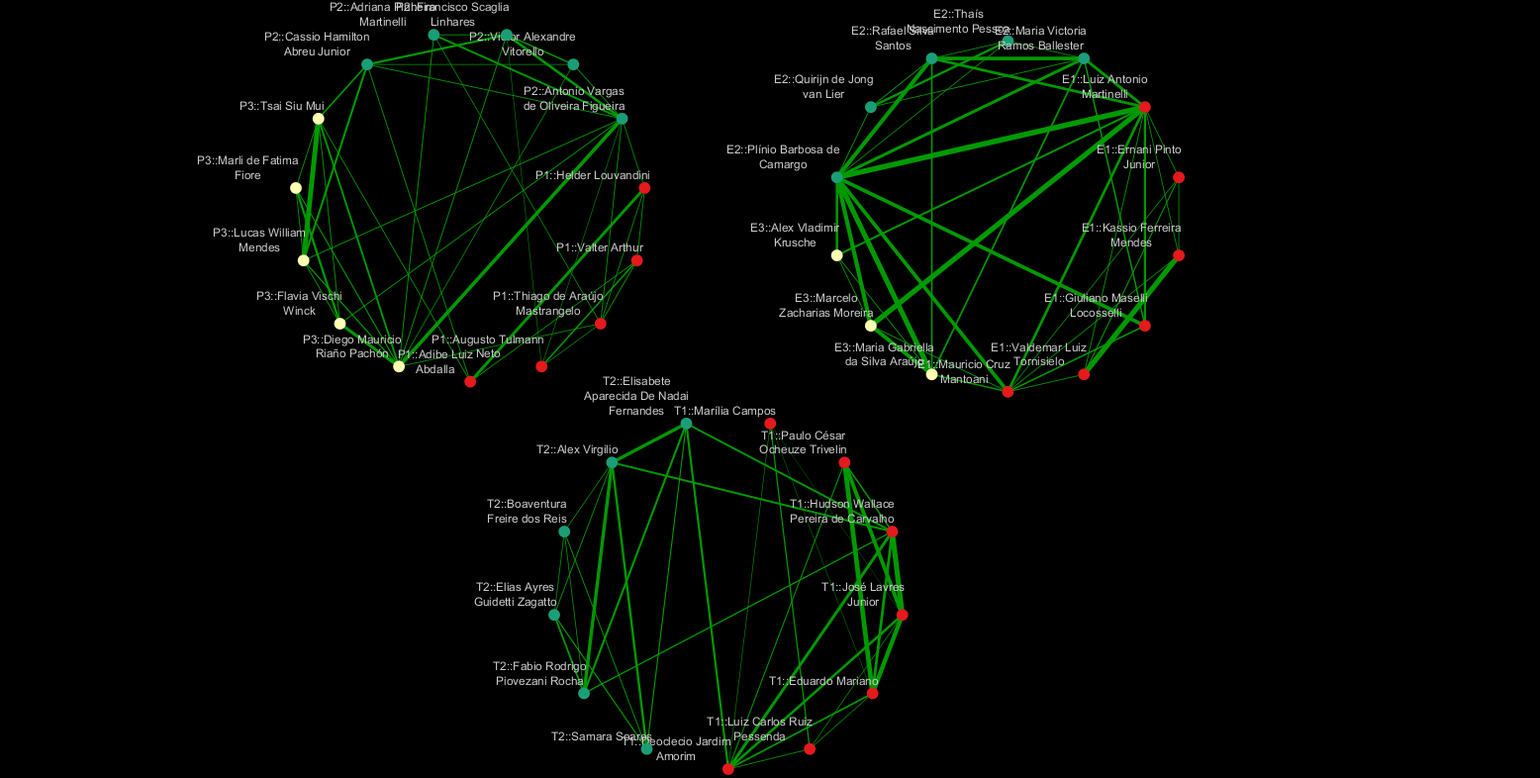
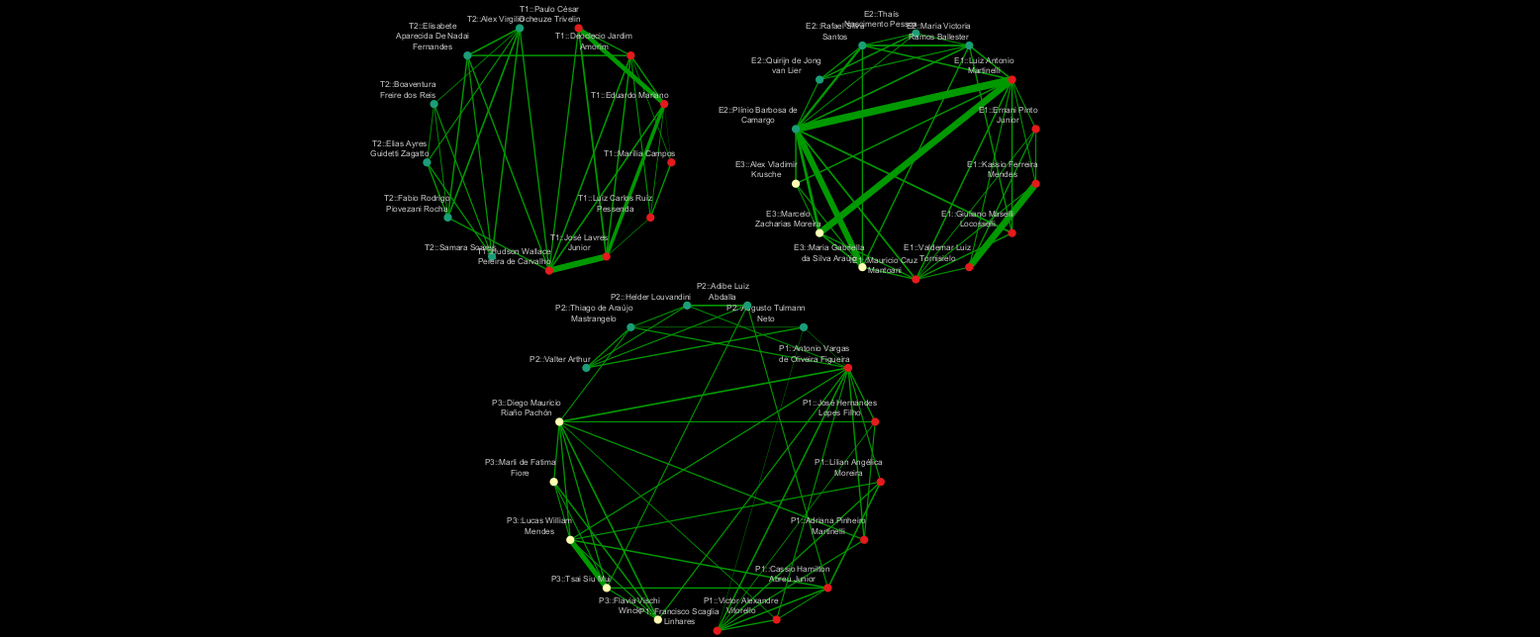
resultados de identificacao de especialidades CENA

Changed region(s): [[0.1234, 0.0, 0.5861, 1.0], [0.4627, 0.0, 0.7712, 0.528]]

diff --git a/README.md b/README.md
@@ -14,8 +14,10 @@ Esta metodologia foi desenvolvida para examinar a produção científica dos doc
 
 O grafo resultante está em [coauthorship.graphml](data/coauthorship.graphml) e pode ser aberto no Cytoscape. A tabela abaixo resume o número de artigos atribuído a cada orientador no conjunto analisado, no periodo de 2021 a 2026, com base nos registros do OpenAlex. Divisão: P = DVPROD, E = DVECO e T = DVTEC.
 
-| Orientador | Divisão | Número de artigos |
+| Professor | Divisão | Número de artigos |
 | --- | --- | ---: |
+| José Hernandes Lopes Filho | P | 5 |
+| Lílian Angélica Moreira | P | 10 |
 | Adibe Luiz Abdalla | P | 82 |
 | Adriana Pinheiro Martinelli | P | 29 |
 | Antonio Vargas de Oliveira Figueira | P | 27 |
@@ -76,8 +78,10 @@ Os nós representam os docentes presentes em [candidates.json](data/candidates.j
 
 ##### Tabela de docentes e número de artigos com título, abstract e keywords incluidos na rede semântica
 
-| Orientador | Áreas | Artigos | Com texto | Com abstract | Com keywords |
+| Professor | Áreas | Artigos | Com texto | Com abstract | Com keywords |
 | --- | --- | ---: | ---: | ---: | ---: |
+| José Hernandes Lopes Filho | P | 5 | 5 | 4 | 5 |
+| Lílian Angélica Moreira | P | 10 | 10 | 8 | 10 |
 | Adibe Luiz Abdalla | P | 82 | 82 | 58 | 82 |
 | Adriana Pinheiro Martinelli | P | 29 | 29 | 21 | 28 |
 | Antonio Vargas de Oliveira Figueira | P | 27 | 27 | 22 | 27 |
@@ -123,7 +127,7 @@ Os nós representam os docentes presentes em [candidates.json](data/candidates.j
 
 ##### Ligações mais fortes de acordo com a similaridade semântica entre orientadores (2021–2026)
 
-| Orientador 1 | Orientador 2 | Similaridade | Artigos compartilhados |
+| Professor 1 | Professor 2 | Similaridade | Artigos compartilhados |
 | --- | --- | ---: | ---: |
 | Luiz Antonio Martinelli | Plínio Barbosa de Camargo | 0.972827 | 13 |
 | Kassio Ferreira Mendes | Valdemar Luiz Tornisielo | 0.969086 | 14 |
@@ -138,69 +142,54 @@ Os nós representam os docentes presentes em [candidates.json](data/candidates.j
 | Cassio Hamilton Abreu Junior | Eduardo Mariano | 0.954282 | 1 |
 | Marcelo Zacharias Moreira | Plínio Barbosa de Camargo | 0.952268 | 4 |
 | Plínio Barbosa de Camargo | Rafael Silva Santos | 0.950232 | 0 |
+| Lílian Angélica Moreira | Paulo César Ocheuze Trivelin | 0.949202 | 0 |
 | Paulo César Ocheuze Trivelin | José Lavres Junior | 0.947837 | 0 |
 | Marcelo Zacharias Moreira | Maria Gabriella da Silva Araújo | 0.946419 | 2 |
 | Plínio Barbosa de Camargo | Luiz Carlos Ruiz Pessenda | 0.946386 | 0 |
+| Lílian Angélica Moreira | José Lavres Junior | 0.945746 | 3 |
 | Plínio Barbosa de Camargo | Deoclecio Jardim Amorim | 0.945170 | 0 |
 | Giuliano Maselli Locosselli | Plínio Barbosa de Camargo | 0.944615 | 0 |
-| Mauricio Cruz Mantoani | Plínio Barbosa de Camargo | 0.944567 | 0 |
-| Maria Victoria Ramos Ballester | Rafael Silva Santos | 0.943360 | 0 |
 
 
 ![Rede de similaridade semântica global CENA/USP](Figs/semantic_similarity.png)
 **Figura 2. Rede semântica global.**
+Não é clara a existencia de comunidades temáticas bem definidas, mas há pares de docentes com alta similaridade semântica. As cores dos nós correspondem ás divisões científicas: P = laranja, E = verde e T = roxo. A espessura das arestas indica a similaridade semântica entre os docentes, calculada com base em títulos, resumos e palavras-chave dos artigos.
 
 ### Rede de similaridade semântica por divisão científica
 
 As saídas em `data/` incluem [area_semantic.graphml](data/area_semantic.graphml) (que pode ser visualizado em Cytoscape) e os arquivos [area_semantic_P.graphml](data/area_semantic_P.graphml), [area_semantic_E.graphml](data/area_semantic_E.graphml) e [area_semantic_T.graphml](data/area_semantic_T.graphml); [area_semantic_nodes.csv](data/area_semantic_nodes.csv) e [area_semantic_edges.csv](data/area_semantic_edges.csv) descrevem seus nós e arestas. [area_semantic_matrix_P.csv](data/area_semantic_matrix_P.csv), [area_semantic_matrix_E.csv](data/area_semantic_matrix_E.csv) e [area_semantic_matrix_T.csv](data/area_semantic_matrix_T.csv) preservam os pares comparáveis que não aparecem nas redes. [area_semantic_coverage.csv](data/area_semantic_coverage.csv) mostra quantos artigos de cada docentes foram aproveitados em cada divisão. Os vetores dos artigos ficam em cache em [area_semantic_embeddings.npz](data/area_semantic_embeddings.npz), de modo que uma nova execução após a curadoria no arquivo ([work_area_curated.csv](data/work_area_curated.csv)) pode reutilizá-los.
 
-
-| Área | Docentes de referência | Artigos de referência | Artigos atribuídos |
-| --- | ---: | ---: | ---: |
-| P | 15 | 477 | 974 |
-| E | 14 | 417 | 1042 |
-| T | 13 | 296 | 1027 |
-Para discutir novas linhas de pesquisa, a rede global pode indicar aproximações amplas; as redes por área mostram **quais dessas aproximações persistem** quando os artigos são filtrados. A interpretação final deve considerar cobertura desigual de publicações, qualidade da atribuição dos artigos às áreas, termos e artigos representativos, além das prioridades do programa.
-
-
 ![Rede de similaridade semântica por divisão CENA/USP](Figs/area_semantic.png)
 **Figura 3. Redes semânticas por divisão científica.**
-A imagem apresenta três conjuntos separados: DVPROD (P), à esquerda; DVECO (E), na região superior direita; e DVTEC (T), abaixo. Cada nó corresponde à atuação de um docente naquela divisão, identificada pelo prefixo P::, E:: ou T::. As linhas verdes ligam pares de orientadores dentro da mesma área. A separação entre P, E e T decorre da construção da rede, que não inclui arestas entre áreas. As posições dos nós também dependem do algoritmo de disposição e não devem ser interpretadas como uma escala numérica de similaridade. As cores dos nós correspondem ás comunidades detectadas pelo algoritmo de Louvain. A espessura das arestas indica a similaridade semântica entre os docentes, calculada com base em títulos, resumos e palavras-chave dos artigos.
+A imagem apresenta três conjuntos separados: DVTEC (T), à esquerda; DVECO (E), na região superior direita; e , DVPROD (P) abaixo. Cada nó corresponde à atuação de um docente naquela divisão, identificada pelo prefixo P::, E:: ou T::. As linhas verdes ligam pares de orientadores dentro da mesma área. A separação entre P, E e T decorre da construção da rede, que não inclui arestas entre áreas. As posições dos nós também dependem do algoritmo de disposição e não devem ser interpretadas como uma escala numérica de similaridade. As cores dos nós correspondem ás comunidades detectadas pelo algoritmo de Louvain. A espessura das arestas indica a similaridade semântica entre os docentes, calculada com base em títulos, resumos e palavras-chave dos artigos. É claro que dentro de cada divisão existen comunidades com maior afinidade temática.
 
-### Proposta de linhas de pesquisa por área
+### Proposta de especialidades por divisão científica
 
-#### Biologia na agricultura e no ambiente (B)
+Est proposta usa a análise de redes semânticas como subsidio para agrupar docentes com afinidade temática, e identificar áreas grandes de atuacão dos docentes do CENA/USP. Precisa de maior discussão e validação com os docentes, mas pode ajudar a identificar especialidades. A proposta está centrada nas comunidades detectadas pelo algoritmo de Louvain, mas em algúns caso sugeri especialidades adicionais (*) com base no conhecimento das linhas de pesquisa do CENA/USP. A proposta de especialidades por divisão científica é apresentada abaixo.
 
-| Grupo | Título representativo |
+#### Divisão de Produtividade Agroindustrial e Alimentos - P 
+
+| Grupo | Especialidades |
 | --- | --- |
-| B1 | Nutrição vegetal, fertilidade do solo e contaminantes |
-| B2 | Biologia integrativa, genômica e biotecnologia |
-| B3 | Ecologia de ecossistemas, microbiomas e mudanças ambientais |
-| B4 | Nutrição animal, saúde e emissões de gases de efeito estufa |
+| P1 | Nutricão vegetal e fertilidade do solo |
+| P2 | Técnicas Nucleares Aplicadas a Biologia de Organismos |
+| P3 | Biologia integrativa e ômicas |
+| *P4 | Biotecnologia e Melhoramento de Plantas |
 
-#### Energia Nuclear na agricultura e no ambiente (N)
+#### Divisão de Funcionamento de Ecossistemas Tropicais - E
 
-| Grupo | Título representativo |
+| Grupo | Especialidades |
 | --- | --- | 
-| N1 | Aplicações da radiação na produção animal |
-| N2 | Ciclos biogeoquímicos e dinâmica ambiental |
-| N3 | Fertilidade do solo, nutrição vegetal e comportamento de herbicidas |
+| E1 | Contaminantes na Agricultura e no Ambiente |
+| E2 |  |
+| E3 | Ecologia de ecossistemas e mudanças climáticas |
 
-#### Química na agricultura e no ambiente (Q)
+#### Divisão de Desenvolvimento de Métodos e Técnicas Analíticas Nucleares - T
 
-| Grupo | Título representativo |
+| Grupo | Especialidades |
 | --- | --- |
-| Q1 | Química ambiental e biogeoquímica de solos e ecossistemas |
-| Q2 | Química analítica e compostos bioativos |
-
-## Limitações e possibilidades de aprimoramento
-
-Um orientador pode estar vinculado a B, N e Q, mas sua produção não se distribui necessariamente da mesma forma entre essas áreas. Na rede global, todos os seus artigos elegíveis contribuem para um único perfil temático. Na análise por área, o orientador pode aparecer nas três redes, porém cada artigo é primeiro classificado: ele contribui apenas para as áreas que lhe foram atribuídas, e pode contribuir para mais de uma. Assim, o script não replica automaticamente todos os artigos do orientador em todas as suas áreas. A separação obtida depende, contudo, da qualidade dessa atribuição.
-A classificação automática usa como referências publicações de orientadores vinculados a uma única área, descartando das referências os artigos também associados a orientadores exclusivos de outra área. Esse procedimento oferece um ponto de partida, mas o vínculo institucional exclusivo de um orientador não garante que cada um de seus artigos seja tematicamente exclusivo daquela área. Por isso, work_area_curated.csv permite corrigir as sugestões antes de interpretar as redes e os grupos.
-
-Uma possibilidade de aprimoramento é usar as teses e dissertações dos egressos como referências temáticas. A relação orientador → egresso → tese/dissertação permite reunir trabalhos desenvolvidos no âmbito do programa. Com o registro da área de concentração oficial de cada trabalho, títulos, resumos e palavras-chave de teses e dissertações dessa área são exemplos mais diretamente ligados às definições institucionais de B, N e Q. Para orientadores que atuam em várias áreas, essa informação ajudaria a distinguir os temas de orientação em cada uma delas. 
-
-Essa estratégia ainda exigiria atenção à cobertura desigual de teses entre áreas, a possíveis mudanças de temas ao longo do tempo e à diferença de idioma entre dissertações em português e artigos majoritariamente em inglês. Trata-se de uma proposta metodológica futura: os scripts atuais não incorporam teses ou dissertações.
+| T1 | Técnicas Nucleares na Agricultura e no Ambiente|
+| T2 | Técnicas Analíticas na Agricultura e no Ambiente |
 
 ## Métodos
 
@@ -218,7 +207,7 @@ python -m pip install openpyxl numpy sentence-transformers scipy scikit-learn ne
 
 ### Seleção dos orientadores
 
-A lista de orientadores credenciados no programa em agosto de 2026 e suas áreas de concentração foi registrada em [supervisors.json](data/supervisors.json). Neste documento, **B** corresponde a Biologia na Agricultura e no Ambiente; **N**, a Energia Nuclear na Agricultura e no Ambiente; e **Q**, a Química na Agricultura e no Ambiente. Um orientador pode estar vinculado a mais de uma área.
+A lista de professores foi obtida em outubro de 2026 a partir do website do CENA/USP, dados foram registrados em [supervisors.json](data/supervisors.json). Neste documento, **P** corresponde a Divisão de Produtividade Agroindustrial e Alimentos; **T**, a Divisão de Desenvolvimento de Métodos e Técnicas Analíticas Nucleares; e **E**, a Divisão de  Funcionamento de Ecossistemas Tropicais. Um professor só pode estar vinculado a uma divisão.
 
 Os perfis dos orientadores foram procurados no [OpenAlex](https://openalex.org/) por meio de sua [API](https://api.openalex.org), usando [collect.py](scripts/collect.py):
 
@@ -226,11 +215,11 @@ Os perfis dos orientadores foram procurados no [OpenAlex](https://openalex.org/)
 python3 ./scripts/collect.py ../CENA_Research_Lines/
 ```
 
-Os resultados dessa busca foram conferidos manualmente para eliminar homônimos e manter os perfis validados com ORCID. Os identificadores selecionados estão em [candidates.json](data/candidates.json). Essa revisão é importante porque um perfil atribuído ao orientador errado contaminaria todas as etapas seguintes. Todos os orientadores credenciados estão presentes em [candidates.json](data/candidates.json).
+Os resultados dessa busca foram conferidos manualmente para eliminar homônimos e manter os perfis validados com ORCID, um perfil por docente. Os identificadores selecionados estão em [candidates.json](data/candidates.json). Essa revisão é importante porque um perfil atribuído ao docente errado contaminaria todas as etapas seguintes. Todos os docentes estão presentes em [candidates.json](data/candidates.json).
 
 ### Recuperação das publicações
 
-A consulta ao OpenAlex ocorreu em **1º de outubro de 2026**. O [works.py](scripts/works.py) disponível neste projeto solicita trabalhos publicados de **1º de janeiro de 2021 a 31 de dezembro de 2026**. O script consulta os perfis selecionados em `candidates.json` e guarda as respostas da API em arquivos JSON separados por identificador de autor.
+A consulta ao OpenAlex ocorreu em **3º de outubro de 2026**. O [works.py](scripts/works.py) disponível neste projeto solicita trabalhos publicados de **1º de janeiro de 2021 a 31 de dezembro de 2026**. O script consulta os perfis selecionados em `candidates.json` e guarda as respostas da API em arquivos JSON separados por identificador de autor.
 
 Os arquivos de trabalhos são gravados em sua subpasta `data/raw/`.
 
@@ -238,11 +227,11 @@ Os arquivos de trabalhos são gravados em sua subpasta `data/raw/`.
 python3 ./scripts/works.py ../CENA_Research_Lines/
 ```
 
-O script [works_to_excel.py](scripts/works_to_excel.py), gera uma [planilha de publicações](data/candidate_publications.xlsx) com os detalhes das publicações dos orientadores. Foram identificados **1.732 registros** de publicações de diferentes tipos, incluindo artigos, livros, capítulos e preprints. A planilha contém título, DOI, lista de autores, orientador associado, ano, tipo de publicação e ID do trabalho no OpenAlex. Um mesmo trabalho pode aparecer em mais de uma linha se estiver associado a mais de um orientador; portanto, o número de registros não representa necessariamente 1.732 publicações distintas. Os resumos e as palavras-chave permanecem nos arquivos JSON usados na análise semântica, mas não são exportados por esta versão de `works_to_excel.py`.
+O script [works_to_excel.py](scripts/works_to_excel.py), gera uma [planilha de publicações](data/candidate_publications.xlsx) com os detalhes das publicações dos orientadores. Foram identificados **2.049 registros** de publicações de diferentes tipos, incluindo artigos, livros, capítulos e preprints. A planilha contém título, DOI, lista de autores, orientador associado, ano, tipo de publicação e ID do trabalho no OpenAlex. Um mesmo trabalho pode aparecer em mais de uma linha se estiver associado a mais de um orientador; portanto, o número de registros não representa necessariamente 2.049 publicações distintas. Os resumos e as palavras-chave permanecem nos arquivos JSON usados na análise semântica, mas não são exportados por esta versão de `works_to_excel.py`.
 
 ### Rede de coautoria
 
-O script [coauthorship.py](scripts/coauthorship.py) constrói uma rede somente com os orientadores de `candidates.json`, considerando registros do OpenAlex com `type = article`. Cada nó representa um orientador. Dois nós são ligados quando os respectivos orientadores aparecem associados ao **mesmo ID de trabalho do OpenAlex**; o peso da aresta é o número de artigos distintos compartilhados. Um artigo é contado apenas uma vez por orientador, mesmo quando há identificadores de autor duplicados ou registros repetidos nos arquivos de entrada.
+O script [coauthorship.py](scripts/coauthorship.py) constrói uma rede somente com os docentes de `candidates.json`, considerando registros do OpenAlex com `type = article`. Cada nó representa um docente. Dois nós são ligados quando os respectivos docentes aparecem associados ao **mesmo ID de trabalho do OpenAlex**; o peso da aresta é o número de artigos distintos compartilhados. Um artigo é contado apenas uma vez por orientador, mesmo quando há identificadores de autor duplicados ou registros repetidos nos arquivos de entrada.
 
 ```bash
 python3 ./scripts/coauthorship.py ../CENA_Research_Lines/
@@ -250,26 +239,26 @@ python3 ./scripts/coauthorship.py ../CENA_Research_Lines/
 
 ### Similaridade semântica entre orientadores
 
-O script [semantic_similarity.py](scripts/semantic_similarity.py) utiliza títulos, resumos (*abstracts*) e palavras-chave (*keywords*) dos artigos para estimar a proximidade temática entre orientadores. Ele usa um modelo da biblioteca [Sentence Transformers](https://www.sbert.net/) para transformar textos em **embeddings**: vetores numéricos cujas posições procuram representar relações de significado aprendidas durante o treinamento. Neste estudo, a semelhança entre vetores é usada como aproximação da semelhança entre os temas dos textos; não é uma classificação definitiva das linhas de pesquisa.
+O script [semantic_similarity.py](scripts/semantic_similarity.py) utiliza títulos, resumos (*abstracts*) e palavras-chave (*keywords*) dos artigos para estimar a proximidade temática entre docentes. Ele usa um modelo da biblioteca [Sentence Transformers](https://www.sbert.net/) para transformar textos em **embeddings**: vetores numéricos cujas posições procuram representar relações de significado aprendidas durante o treinamento. Neste estudo, a semelhança entre vetores é usada como aproximação da semelhança entre os temas dos textos; não é uma classificação definitiva das linhas de pesquisa.
 
 #### Como o transformer produz um embedding
 
 1. **Divisão em tokens.** O texto é separado em unidades menores, chamadas *tokens*. Elas podem corresponder a palavras inteiras ou a partes de palavras. Os tokens são convertidos em identificadores numéricos de entrada do modelo.
 2. **Representação contextual.** O transformer processa os tokens em conjunto. Pelo mecanismo de *[atenção](https://doi.org/10.48550/arXiv.1706.03762)*, a representação de cada token é ajustada com base nos demais tokens do mesmo trecho. Por isso, uma palavra pode contribuir de formas diferentes conforme o contexto em que aparece. Essa representação é aprendida pelo modelo durante o treinamento; o script não atribui manualmente um valor a cada palavra.
-3. **Agregação dos tokens.** Para obter um único vetor por trecho de texto, o modelo Sentence Transformers combina as representações contextualizadas dos tokens por uma operação chamada *pooling*. Nos dois modelos mencionados abaixo, a operação configurada é a média dos tokens válidos, desconsiderando o preenchimento usado nos lotes. O resultado é um vetor denso: **768 dimensões** com `all-mpnet-base-v2` ou **384 dimensões** com `paraphrase-multilingual-MiniLM-L12-v2`. Cada dimensão participa da representação aprendida; ela não deve ser interpretada isoladamente como um tema específico.
+3. **Agregação dos tokens.** Para obter um único vetor por trecho de texto, o modelo Sentence Transformers combina as representações contextualizadas dos tokens por uma operação chamada *pooling*. Nos dois modelos mencionados abaixo, a operação configurada é a média dos tokens válidos, desconsiderando o preenchimento usado nos lotes. O resultado é um vetor denso: **1024** com `BAAI/bge-large-en-v1.5` ou  **768 dimensões** com `all-mpnet-base-v2` ou **384 dimensões** com `paraphrase-multilingual-MiniLM-L12-v2`. Cada dimensão participa da representação aprendida; ela não deve ser interpretada isoladamente como um tema específico.
 4. **Normalização.** O script normaliza esses vetores para comprimento unitário antes de combiná-los. Dessa forma, a comparação posterior se concentra na direção dos vetores, e não em sua magnitude.
 
 Essas etapas descrevem a codificação **de um trecho de texto**. O script ainda precisa combinar trechos, campos e artigos:
 
 1. **Trechos de texto:** antes de enviar um campo ao modelo, o script o divide em blocos de até 112 tokens de texto por padrão, respeitando o limite do modelo e reservando espaço para seus tokens especiais. A opção `--max-tokens N` muda o limite total de cada trecho, **incluindo** os tokens especiais; por exemplo, com `--max-tokens 512`, um modelo que usa dois tokens especiais recebe no máximo 510 tokens do texto. Um valor acima do limite do modelo produz um erro explícito. Isso evita descartar o fim de resumos longos. Se houver vários blocos, calcula a média de seus vetores e normaliza o resultado. A média preserva informação dos blocos, mas não representa as relações de ordem entre blocos distantes.
 2. **Campos de um artigo:** combina separadamente os vetores do título, do resumo e das palavras-chave. Com os valores padrão, seus pesos relativos são, respectivamente, **25%, 60% e 15%**. Se faltar um campo, os pesos dos campos presentes são redistribuídos proporcionalmente. O vetor final do artigo é normalizado. Esses pesos são escolhas metodológicas do script, não parâmetros aprendidos pelo transformer, e podem ser alterados por opções de linha de comando.
-3. **Artigos de um orientador:** combina os vetores dos artigos do orientador, dando o mesmo peso a cada artigo, e normaliza o perfil resultante. O script trabalha apenas com registros `type = article` e usa o intervalo de datas indicado na execução.
-4. **Comparação entre dois orientadores:** por padrão, retira dos **dois perfis daquele par** os artigos que ambos assinaram. Isso evita que um mesmo trabalho compartilhado aumente diretamente a similaridade do par. Os perfis usados nessa comparação, portanto, podem variar conforme o par; se um orientador ficar sem artigos após a exclusão, não há valor de similaridade para esse par. A opção `--include-shared` mantém os artigos compartilhados.
+3. **Artigos de um docente:** combina os vetores dos artigos do docente, dando o mesmo peso a cada artigo, e normaliza o perfil resultante. O script trabalha apenas com registros `type = article` e usa o intervalo de datas indicado na execução.
+4. **Comparação entre dois docentes:** por padrão, retira dos **dois perfis daquele par** os artigos que ambos assinaram. Isso evita que um mesmo trabalho compartilhado aumente diretamente a similaridade do par. Os perfis usados nessa comparação, portanto, podem variar conforme o par; se um orientador ficar sem artigos após a exclusão, não há valor de similaridade para esse par. A opção `--include-shared` mantém os artigos compartilhados.
 5. **Similaridade e rede:** calcula o **cosseno** entre os dois perfis normalizados, equivalente ao produto escalar de seus vetores. O valor matemático está entre −1 e 1; valores maiores indicam direções mais próximas, mas **não são porcentagens de temas em comum nem probabilidades**. O parâmetro `--top-k` escolhe os *k* vizinhos comparáveis mais próximos de cada orientador. A rede contém a **união** dessas escolhas: uma ligação entra se for escolhida por pelo menos um dos dois nós, de modo que um nó pode terminar com mais de *k* ligações. A matriz CSV guarda também as comparações que não viraram arestas.
 
 #### Resultados da análise da rede semântica
 
-Nesta análise foi escolhido o modelo [BAAI/bge-large-en-v1.5](https://huggingface.co/BAAI/bge-large-en-v1.5), outras alternativas mais baratas computacionalmente são [all-mpnet-base-v2](https://huggingface.co/sentence-transformers/all-mpnet-base-v2) para textos majoritariamente em inglês, e [paraphrase-multilingual-MiniLM-L12-v2](https://huggingface.co/sentence-transformers/paraphrase-multilingual-MiniLM-L12-v2), uma alternativa quando os textos incluem vários idiomas (este último é o **padrão do script**). São modelos de uso geral para embeddings de frases e parágrafos; nesta análise não houve ajuste adicional do modelo para o vocabulário específico do PPG-Ciências. A escolha do modelo afeta os vetores e, portanto, pode alterar as similaridades e as arestas. A base para a seleção do modelo foi um [benchmark recente](http://dx.doi.org/10.30970/eli.30.4) que avaliou varios modelos de embeddings em tarefas de similaridade semântica, classificação e recuperação de informação. O modelo BGE Large obteve o melhor na captura de relações semânticas, seguido por all-mpnet-base-v2 e paraphrase-multilingual-MiniLM-L12-v2. (Resultados com all-mpnet-base-v2 estão disponiveis em [data/semantic_similarity_all-mpnet-base-v2](data/semantic_similarity_all-mpnet-base-v2).)
+Nesta análise foi escolhido o modelo [BAAI/bge-large-en-v1.5](https://huggingface.co/BAAI/bge-large-en-v1.5), outras alternativas mais baratas computacionalmente são [all-mpnet-base-v2](https://huggingface.co/sentence-transformers/all-mpnet-base-v2) para textos majoritariamente em inglês, e [paraphrase-multilingual-MiniLM-L12-v2](https://huggingface.co/sentence-transformers/paraphrase-multilingual-MiniLM-L12-v2), uma alternativa quando os textos incluem vários idiomas (este último é o **padrão do script**). São modelos de uso geral para embeddings de frases e parágrafos; nesta análise não houve ajuste adicional do modelo para o vocabulário específico do CENA/USP. A escolha do modelo afeta os vetores e, portanto, pode alterar as similaridades e as arestas. A base para a seleção do modelo foi um [benchmark recente](http://dx.doi.org/10.30970/eli.30.4) que avaliou varios modelos de embeddings em tarefas de similaridade semântica, classificação e recuperação de informação. O modelo BGE Large obteve o melhor na captura de relações semânticas, seguido por all-mpnet-base-v2 e paraphrase-multilingual-MiniLM-L12-v2.
 
 ```bash
 python3 scripts/semantic_similarity.py ../CENA_Research_Lines/ \
@@ -279,13 +268,13 @@ python3 scripts/semantic_similarity.py ../CENA_Research_Lines/ \
   --top-k 4
 ```
 
-Com essa execução, o script lê os arquivos em `PROJECT_ROOT/data/`, usa por padrão artigos de 2021 a 2026 **que estejam presentes nos arquivos JSON** e grava a rede em [semantic_similarity.graphml](data/semantic_similarity.graphml) (que pode ser visualizada em Cytoscape), além da [tabela de nós](data/semantic_similarity_nodes.csv), da [lista de arestas](data/semantic_similarity_edges.csv) e da [matriz completa de similaridade](data/semantic_similarity_matrix.csv). Os resultados descrevem proximidade no espaço vetorial do modelo e devem ser interpretados junto com os textos dos artigos e com a avaliação dos orientadores.
+Com essa execução, o script lê os arquivos em `PROJECT_ROOT/data/`, usa por padrão artigos de 2021 a 2026 **que estejam presentes nos arquivos JSON** e grava a rede em [semantic_similarity.graphml](data/semantic_similarity.graphml) (que pode ser visualizada em Cytoscape), além da [tabela de nós](data/semantic_similarity_nodes.csv), da [lista de arestas](data/semantic_similarity_edges.csv) e da [matriz completa de similaridade](data/semantic_similarity_matrix.csv). Os resultados descrevem proximidade no espaço vetorial do modelo.
 
-A rede gerada por `semantic_similarity.py` reúne todos os orientadores em uma única comparação. Ela ajuda a reconhecer afinidades temáticas que atravessam as áreas de concentração e a localizar pares cuja produção merece leitura mais atenta. Para interpretar seus resultados, convém distinguir os arquivos produzidos:
+A rede gerada por `semantic_similarity.py` reúne todos os docentes em uma única comparação. Ela ajuda a reconhecer afinidades temáticas que atravessam as divisões científicas e a localizar pares cuja produção merece leitura mais atenta. Para interpretar seus resultados, convém distinguir os arquivos produzidos:
 
 | Arquivo em `data/` | O que permite examinar |
 | --- | --- |
-| `semantic_similarity_nodes.csv` | Orientadores, áreas de concentração e número de artigos com texto utilizável. |
+| `semantic_similarity_nodes.csv` | Docentes, divisões científicas e número de artigos com texto utilizável. |
 | `semantic_similarity_edges.csv` | Pares exibidos na rede, cosseno em `weight` e número de artigos que o par assinou em conjunto. |
 | `semantic_similarity_matrix.csv` | Similaridade de todos os pares comparáveis, inclusive daqueles que ficaram fora da rede após a seleção dos vizinhos. |
 | `semantic_similarity.graphml` | Rede para exploração visual no Cytoscape. |
@@ -294,18 +283,9 @@ Uma aresta forte sugere que os artigos **não compartilhados** daquele par trata
 
 ### Da rede global às análises por área de concentração
 
-O script [area_semantic.py](scripts/area_semantic.py) responde a uma pergunta mais específica: **quais orientadores se aproximam quando consideramos apenas os artigos pertinentes a uma determinada área de concentração?** Ele importa funções de `semantic_similarity.py` para ler os dados, gerar embeddings e calcular comparações, mas **não lê** `semantic_similarity.graphml`, a lista de arestas ou a matriz CSV da rede global. Pode, portanto, ser executado diretamente sobre `candidates.json`, `supervisors.json` e os JSON de artigos em `data/raw/`. Para comparar as duas análises, use o mesmo modelo, os mesmos pesos dos campos e o mesmo intervalo de datas.
+O script [area_semantic.py](scripts/area_semantic.py) responde a uma pergunta mais específica: **quais docentes se aproximam quando consideramos apenas os artigos pertinentes a uma determinada divisão científica?** Ele importa funções de `semantic_similarity.py` para ler os dados, gerar embeddings e calcular comparações, mas **não lê** `semantic_similarity.graphml`, a lista de arestas ou a matriz CSV da rede global. Pode, portanto, ser executado diretamente sobre `candidates.json`, `supervisors.json` e os JSON de artigos em `data/raw/`. Para comparar as duas análises, use o mesmo modelo, os mesmos pesos dos campos e o mesmo intervalo de datas.
 
-O processamento por área ocorre em etapas:
-
-1. **Classificação provisória dos artigos.** O script usa como referências iniciais artigos de orientadores vinculados a uma única área, deixando de fora das sementes os artigos também associados a orientadores exclusivos de outra área. Calcula um vetor médio para cada orientador de referência e, depois, um protótipo para B, N e Q. Cada artigo é comparado com esses três protótipos pelo cosseno. Com os parâmetros padrão, uma área é sugerida quando seu escore é pelo menos `0,20` e está a no máximo `0,05` do maior escore do artigo. Um artigo pode receber mais de uma área ou nenhuma. Os protótipos são referências automáticas, não definições oficiais das áreas.
-2. **Conferência e curadoria.** `work_area_suggestions.csv` traz os escores `score_B`, `score_N` e `score_Q`, a distância entre os dois maiores escores (`score_gap`) e sinalizadores úteis para revisão, como ausência de resumo e atribuição a várias áreas. `work_area_curated.csv` lista cada artigo e os orientadores associados. Para corrigir uma área, edite a coluna `areas` com `B`, `N`, `Q` ou combinações como `B+N`; deixe-a vazia para excluir o artigo. O script preserva as alterações manuais e informa na tela quantos artigos receberam curadoria manual. Uma classificação incerta merece inspeção do texto original, mesmo quando o cosseno é alto.
-3. **Perfis e redes específicos de B, N e Q.** Em cada área, o perfil de um orientador inclui somente seus artigos atribuídos àquela área, desde que ele seja vinculado a ela em `supervisors.json`. Artigos atribuídos a duas áreas podem contribuir para ambas. O script recalcula as similaridades entre os orientadores elegíveis de cada área, excluindo por padrão os artigos compartilhados na comparação de cada par. Por isso, uma ligação presente na rede global pode desaparecer na rede de uma área, ou um par pode ganhar destaque dentro dela: mudou o conjunto de artigos comparados e também o conjunto de vizinhos possíveis.
-4. **Comunidades e temas propostos.** Em cada rede, o algoritmo de [Louvain](https://doi.org/10.1088/1742-5468/2008/10/P10008) identifica comunidades sem impor previamente sua quantidade. Separadamente, um agrupamento hierárquico propõe **três grupos por área** com `--groups 3`, quando há orientadores suficientes. Esse agrupamento combina, por padrão, 75% de similaridade semântica e 25% de proximidade lexical calculada por [TF-IDF](https://en.wikipedia.org/wiki/Tf%E2%80%93idf) sobre os textos da própria área; se não há escore semântico para um par, usa sua proximidade lexical. Os termos distintivos e títulos representativos ajudam a descrever cada grupo, mas são rótulos exploratórios, não nomes apropriados para linhas de pesquisa.
-
-Um orientador vinculado a mais de uma área pode aparecer uma vez em **cada rede na qual tenha artigos classificados suficientes** (`--min-area-papers`, cujo padrão é 1): por exemplo, `B::Nome` e `N::Nome` são nós diferentes no GraphML combinado. As ligações conectam apenas orientadores da mesma área. Assim, é possível examinar se a atuação temática do mesmo orientador difere entre B e N, sem misturar seus artigos das duas áreas no perfil local.
-
-Para atribuir os artigos as áreas, o script calcula a similaridade de cada artigo com protótipos de B, N e Q. A classificação provisória é registrada em [work_area_suggestions.csv](data/work_area_suggestions.csv). O arquivo [work_area_curated.csv](data/work_area_curated.csv) permite corrigir manualmente a área de cada artigo. O script lê esse arquivo e gera as redes por área.
+1. **Comunidades e temas propostos.** Em cada rede (P, E, e T), o algoritmo de [Louvain](https://doi.org/10.1088/1742-5468/2008/10/P10008) identifica comunidades sem impor previamente sua quantidade. Separadamente, um agrupamento hierárquico propõe **três grupos por área** com `--groups 3`, quando há docentes suficientes. Esse agrupamento combina, por padrão, 75% de similaridade semântica e 25% de proximidade lexical calculada por [TF-IDF](https://en.wikipedia.org/wiki/Tf%E2%80%93idf) sobre os textos da própria área; se não há escore semântico para um par, usa sua proximidade lexical. Os termos distintivos e títulos representativos ajudam a descrever cada grupo, mas são rótulos exploratórios, não nomes apropriados para linhas de pesquisa.
 
 ```bash
 python3 scripts/area_semantic.py ../CENA_Research_Lines/ \
